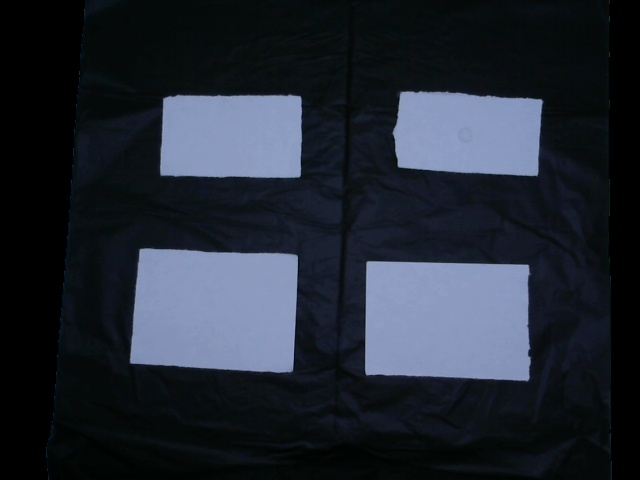
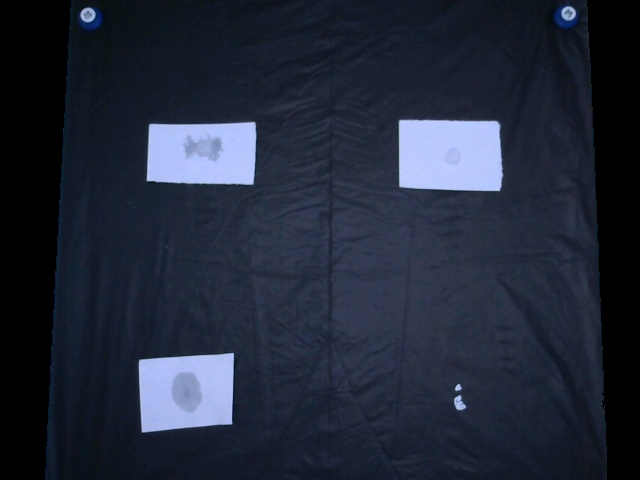
Code update
Better fitting to the water drop

diff --git a/Python/src/analysis_function.py b/Python/src/analysis_function.py
@@ -138,11 +138,11 @@ def split_picture_to_sample(path, export_path=None):
             #cv2.waitKey(0)
             
             # Crop the image to the bounding rectangle
-            cropped = img[y-90:y+h+100, x-100:x+w+100]
+            cropped = img[y-50:y+h+50, x-50:x+w+50]
             
             # Display the cropped image
-            #cv2.imshow('Cropped', cropped)
-            #cv2.waitKey(0)
+            cv2.imshow('Cropped', cropped)
+            cv2.waitKey(0)
             
             # Save the new image to a file
             #cv2.imwrite(export_path+'_'+str(counter)+'.jpg', cropped)
@@ -159,7 +159,7 @@ def water_absportion_analysis(img):
     number_of_sample = 1
 
     # Resize the image
-    resized_img = cv2.resize(img, (640, 480))
+    resized_img = cv2.resize(img, (480, 360))
 
     # Convert the image to grayscale
     gray_img = cv2.cvtColor(resized_img, cv2.COLOR_BGR2GRAY)
@@ -169,8 +169,8 @@ def water_absportion_analysis(img):
     beta = -15  # Brightness control (0-100)
     gray_img = cv2.convertScaleAbs(gray_img, alpha=alpha, beta=beta)
 
-    #cv2.imshow("Circles", gray_img)
-    #cv2.waitKey(0)
+    cv2.imshow("Circles", gray_img)
+    cv2.waitKey(0)
 
     # Define the parameters
     gray_param_1, gray_param_2 = 10, 30
@@ -217,7 +217,7 @@ def water_absportion_analysis(img):
         # If there is the right number of water drop detected
         if circles.shape[0] == number_of_sample:
             # Define the area threshold
-            area_threshold = 850
+            area_threshold = 1200
 
             # Print the numbers of circles detected.
             #print(f"{circles.shape[0]} water drop has (have) been detected!")

diff --git a/Python/src/main.py b/Python/src/main.py
@@ -317,11 +317,11 @@ class HydroSensApp(ctk.CTk):
                 analysis_function.remove_contours(export_path+str(nb_iteration)+ \
                     '-'+str(int(nb_iteration*duration/60))+'m'+'-'+str(int((nb_iteration*duration) % 60))+ \
                         's'+'.jpg', image_reframe_path)
-                #analysis_function.remove_contours('c:\\Users\\trist\\Downloads\\test4\\Picture-0-0m-0s_3.jpg', image_reframe_path)
+                #analysis_function.remove_contours('c:\\Users\\trist\\Downloads\\P4A\\test12\\Picture-1-0m-20s.jpg', image_reframe_path)
                 
                 # Define the absolute path of the reframed image
                 #image_split_path = OS_function.folder_path(("..", "assets", "images", "image_split"))
-
+                
                 # Get a list of images from the sample
                 img_list = analysis_function.split_picture_to_sample(image_reframe_path)
 

diff --git a/Python/src/camera_function.py b/Python/src/camera_function.py
@@ -35,8 +35,11 @@ def take_picture(preview, port, path=None):
     if port is not None:
         # Initialize the camera
         cap = cv2.VideoCapture(port, cv2.CAP_DSHOW)
-        # Set exposure time to 500 milliseconds
-        cap.set(cv2.CAP_PROP_EXPOSURE, 1000)
+        # Define the resolution
+        #cap.set(cv2.CAP_PROP_FRAME_WIDTH, 720)
+        #cap.set(cv2.CAP_PROP_FRAME_HEIGHT, 480)
+        # Set exposure time to 1200 milliseconds
+        cap.set(cv2.CAP_PROP_EXPOSURE, 1200)
         # Capture a frame
         ret, frame = cap.read()
         # If the picture has been taken
